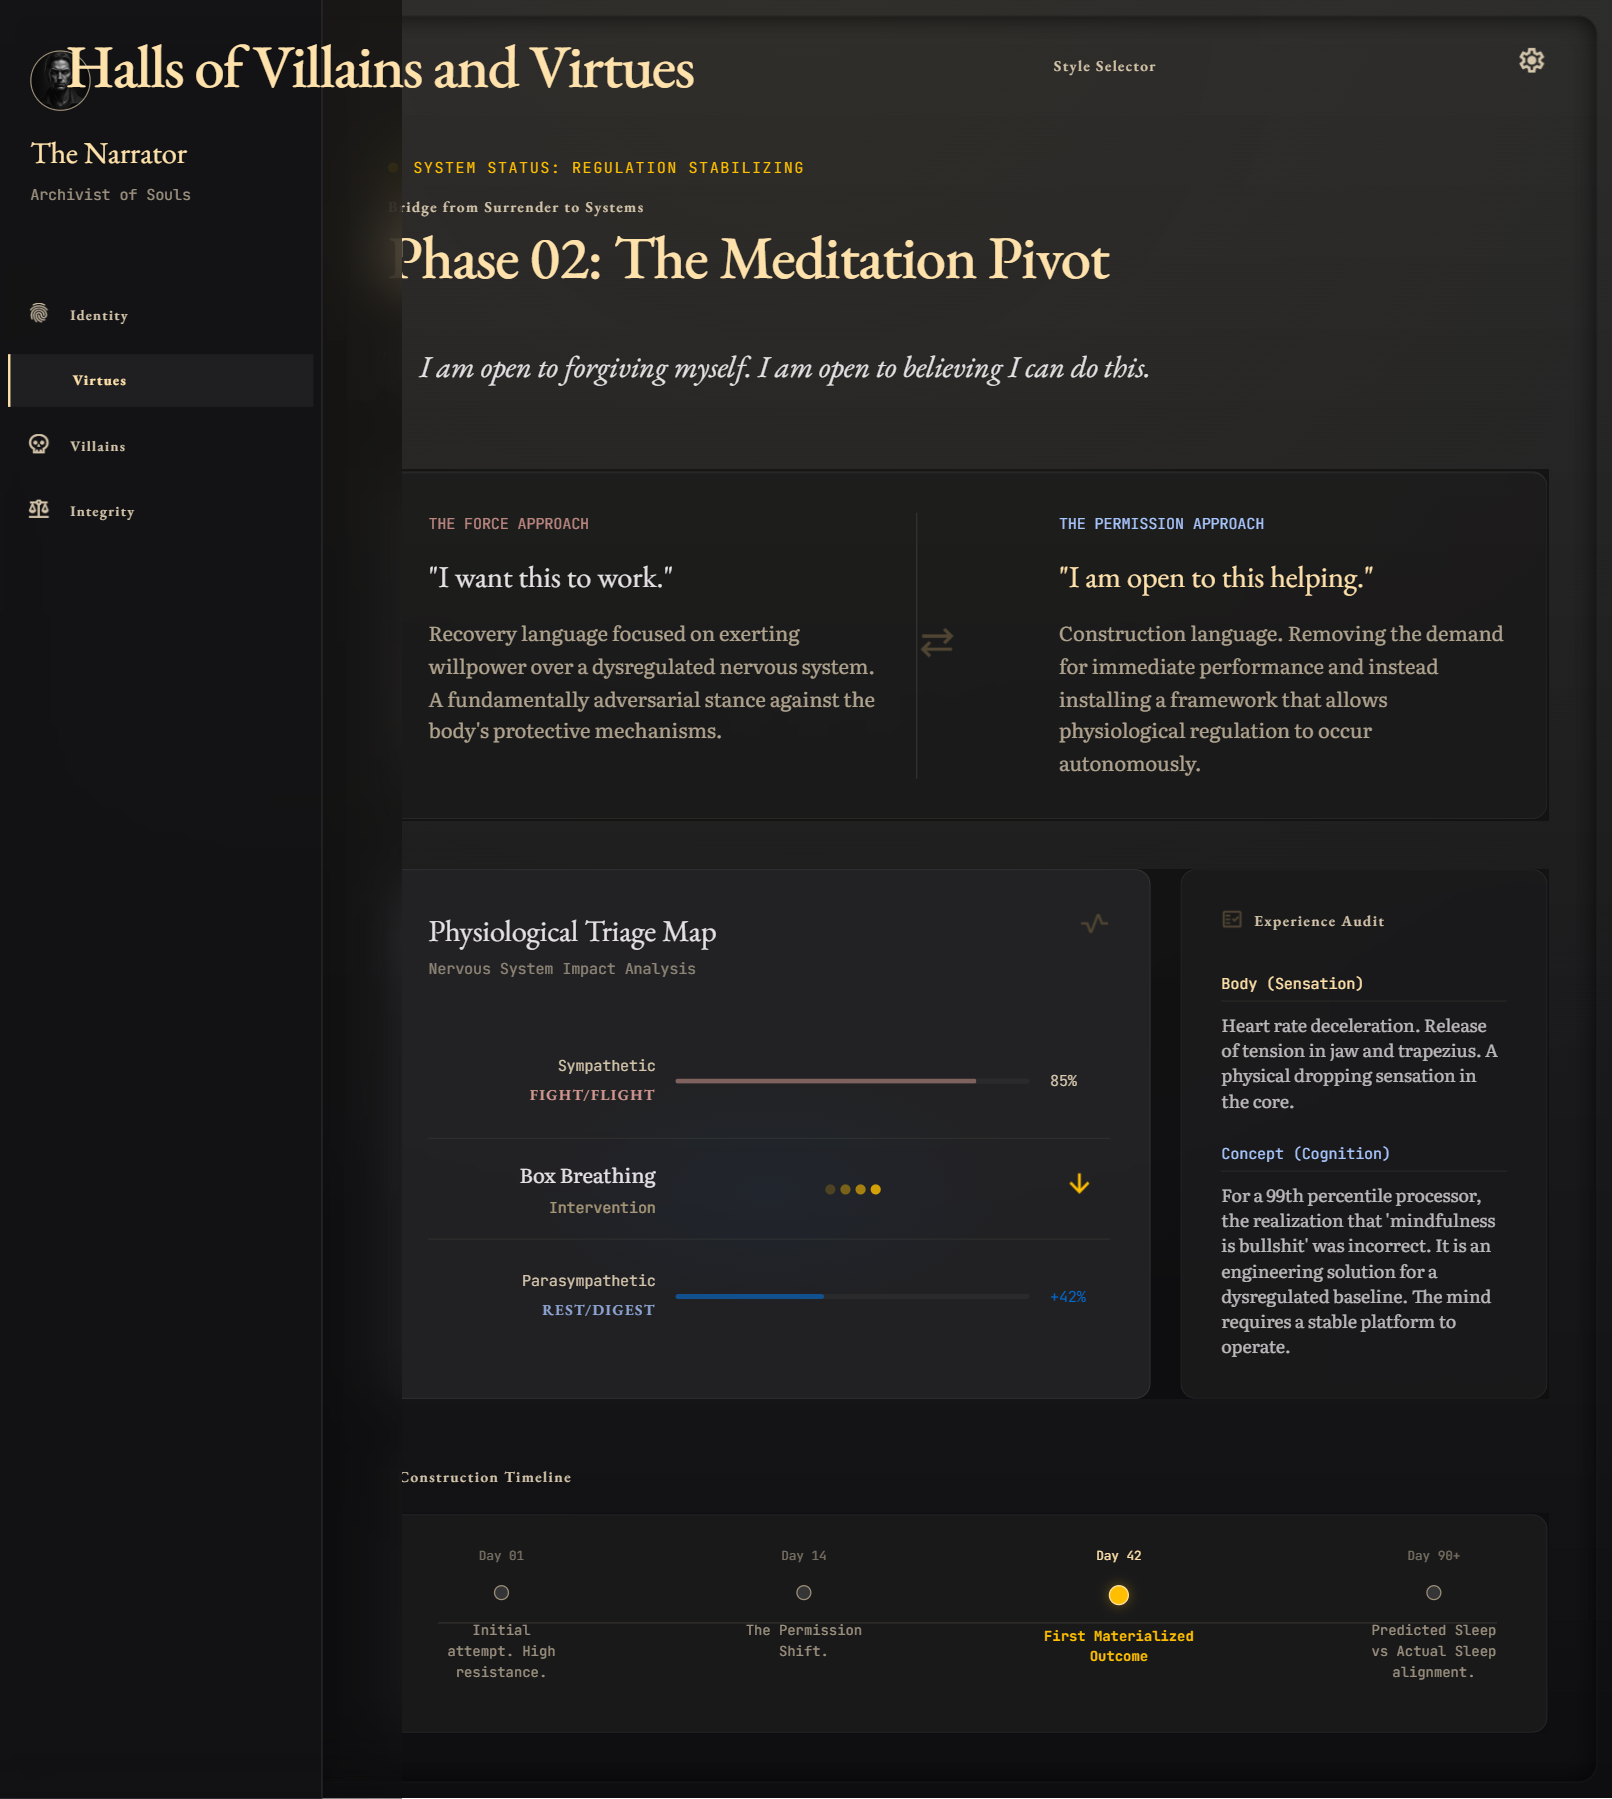
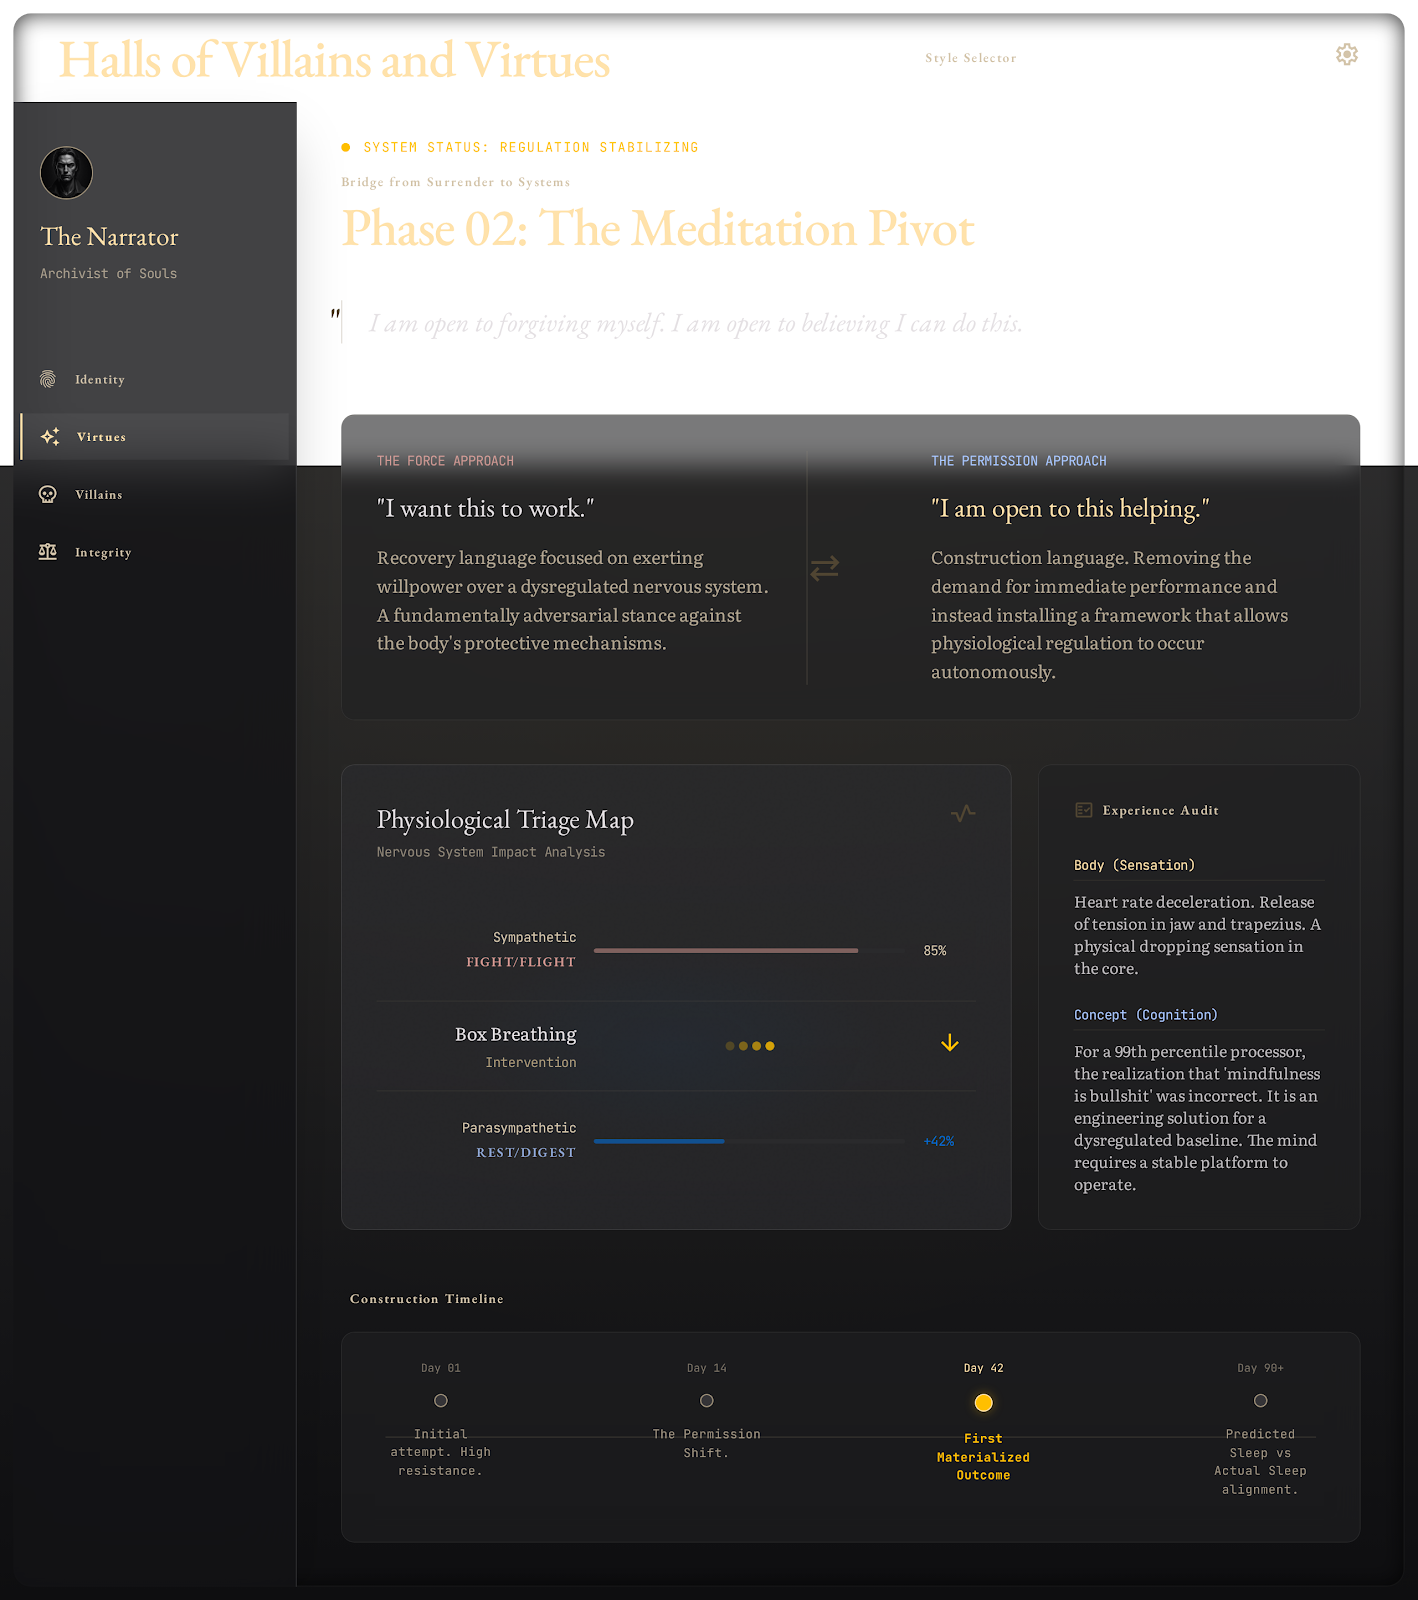
Add files via upload

diff --git a/welcome_to_the_chaos_club_excavation_report/code.html b/welcome_to_the_chaos_club_excavation_report/code.html
@@ -1,0 +1,238 @@
+<!DOCTYPE html>
+
+<html class="dark" lang="en"><head>
+<meta charset="utf-8"/>
+<meta content="width=device-width, initial-scale=1.0" name="viewport"/>
+<title>Excavation Report: Chaos Club</title>
+<script src="https://cdn.tailwindcss.com?plugins=forms,container-queries"></script>
+<link href="https://fonts.googleapis.com/css2?family=Material+Symbols+Outlined:wght,FILL@100..700,0..1&amp;display=swap" rel="stylesheet"/>
+<link href="https://fonts.googleapis.com/css2?family=EB+Garamond:ital,wght@0,400..800;1,400..800&amp;family=Literata:ital,opsz,wght@0,7..72,200..900;1,7..72,200..900&amp;family=JetBrains+Mono:wght@400;500;700&amp;display=swap" rel="stylesheet"/>
+<link href="https://fonts.googleapis.com/css2?family=Material+Symbols+Outlined:wght,FILL@100..700,0..1&amp;display=swap" rel="stylesheet"/>
+<script id="tailwind-config">
+        tailwind.config = {
+            darkMode: "class",
+            theme: {
+                extend: {
+                    "colors": {
+                        "secondary-fixed-dim": "#a9c7ff",
+                        "error-container": "#93000a",
+                        "inverse-on-surface": "#313032",
+                        "surface-bright": "#39393b",
+                        "surface-dim": "#131315",
+                        "on-tertiary-fixed-variant": "#454744",
+                        "tertiary-fixed": "#e3e3de",
+                        "primary": "#ffe2ab",
+                        "on-surface-variant": "#d4c5ab",
+                        "surface-container-lowest": "#0e0e10",
+                        "secondary-fixed": "#d6e3ff",
+                        "on-background": "#e5e1e4",
+                        "outline": "#9c8f78",
+                        "tertiary-fixed-dim": "#c6c7c2",
+                        "inverse-primary": "#795900",
+                        "background": "#131315",
+                        "surface-container-low": "#1c1b1d",
+                        "surface-container": "#201f21",
+                        "surface-tint": "#fbbc00",
+                        "on-secondary-fixed-variant": "#00468c",
+                        "on-error-container": "#ffdad6",
+                        "surface-variant": "#353437",
+                        "secondary-container": "#026bd2",
+                        "primary-fixed-dim": "#fbbc00",
+                        "tertiary": "#e6e6e1",
+                        "error": "#ffb4ab",
+                        "on-tertiary": "#2f312e",
+                        "on-secondary": "#003064",
+                        "inverse-surface": "#e5e1e4",
+                        "outline-variant": "#504532",
+                        "on-error": "#690005",
+                        "on-primary-container": "#6d5000",
+                        "on-tertiary-fixed": "#1a1c19",
+                        "on-surface": "#e5e1e4",
+                        "surface-container-high": "#2a2a2c",
+                        "on-secondary-container": "#ebf0ff",
+                        "surface": "#131315",
+                        "on-primary-fixed": "#261a00",
+                        "on-tertiary-container": "#535551",
+                        "surface-container-highest": "#353437",
+                        "primary-container": "#ffbf00",
+                        "tertiary-container": "#c9cac5",
+                        "primary-fixed": "#ffdfa0",
+                        "on-primary": "#402d00",
+                        "on-primary-fixed-variant": "#5c4300",
+                        "secondary": "#a9c7ff",
+                        "on-secondary-fixed": "#001b3e",
+                        "cyan-accent": "#00f0ff"
+                    },
+                    "borderRadius": {
+                        "DEFAULT": "0.25rem",
+                        "lg": "0.5rem",
+                        "xl": "0.75rem",
+                        "full": "9999px"
+                    },
+                    "spacing": {
+                        "unit": "8px",
+                        "container-padding": "40px",
+                        "window-frame-thickness": "12px",
+                        "gutter": "24px"
+                    },
+                    "fontFamily": {
+                        "label-caps": ["EB Garamond", "serif"],
+                        "body-lg": ["Literata", "serif"],
+                        "headline-md": ["EB Garamond", "serif"],
+                        "technical-sm": ["JetBrains Mono", "monospace"],
+                        "body-md": ["Literata", "serif"],
+                        "display-lg-mobile": ["EB Garamond", "serif"],
+                        "display-lg": ["EB Garamond", "serif"]
+                    },
+                    "fontSize": {
+                        "label-caps": ["12px", { "lineHeight": "1.0", "letterSpacing": "0.1em", "fontWeight": "600" }],
+                        "body-lg": ["18px", { "lineHeight": "1.6", "fontWeight": "400" }],
+                        "headline-md": ["24px", { "lineHeight": "1.4", "fontWeight": "400" }],
+                        "technical-sm": ["12px", { "lineHeight": "1.5", "letterSpacing": "-0.01em", "fontWeight": "400" }],
+                        "body-md": ["16px", { "lineHeight": "1.6", "fontWeight": "400" }],
+                        "display-lg-mobile": ["32px", { "lineHeight": "1.2", "fontWeight": "500" }],
+                        "display-lg": ["48px", { "lineHeight": "1.1", "letterSpacing": "-0.02em", "fontWeight": "500" }]
+                    },
+                    backgroundImage: {
+                        'grid-pattern': "linear-gradient(to right, rgba(255, 255, 255, 0.03) 1px, transparent 1px), linear-gradient(to bottom, rgba(255, 255, 255, 0.03) 1px, transparent 1px)"
+                    }
+                }
+            }
+        }
+    </script>
+<style>
+        body {
+            background-color: #0a0a0c;
+            color: #e5e1e4;
+        }
+        .window-frame {
+            box-shadow: inset 0 0 0 1px rgba(255, 255, 255, 0.1), inset 0 0 20px rgba(0,0,0,0.8);
+        }
+        .glass-panel {
+            background: rgba(32, 31, 33, 0.4);
+            backdrop-filter: blur(12px);
+            border: 0.5px solid rgba(255, 255, 255, 0.1);
+        }
+        .tech-accent {
+            color: #00f0ff;
+        }
+    </style>
+</head>
[1 lines of base64/hex data omitted]
+<!-- The Window Frame Container -->
+<div class="window-frame min-h-[calc(100vh-24px)] rounded-xl relative flex flex-col bg-background overflow-hidden">
+<!-- TopAppBar Shared Component -->
+<header class="flex justify-between items-center w-full px-10 h-20 bg-transparent shrink-0">
+<div class="flex items-center gap-4">
+<span class="font-display-lg-mobile text-display-lg-mobile md:font-display-lg md:text-display-lg text-primary dark:text-primary-fixed tracking-tight">
+                    Halls of Villains and Virtues
+                </span>
+<span class="text-on-surface-variant font-technical-sm text-technical-sm opacity-50 ml-4 hidden md:block">
+                    EXCAVATION REPORT // SEGMENT 12
+                </span>
+</div>
+<nav class="hidden md:flex gap-8 items-center">
+<a class="text-on-surface-variant font-label-caps text-label-caps hover:text-primary transition-colors duration-300" href="#">Style Selector</a>
+<button class="text-primary dark:text-primary-fixed hover:text-primary transition-colors duration-300">
+<span class="material-symbols-outlined">settings</span>
+</button>
+</nav>
+</header>
+<!-- Main Content Area -->
+<main class="flex-grow grid grid-cols-1 lg:grid-cols-12 gap-gutter px-container-padding py-10 overflow-y-auto">
+<!-- Left Column: Narrative -->
+<article class="lg:col-span-7 flex flex-col gap-8 pr-0 lg:pr-8 border-r-0 lg:border-r border-white/5">
+<header class="space-y-4">
+<h1 class="font-display-lg text-display-lg text-primary tracking-tight">Chapter 12: No Masks Required</h1>
+<div class="h-px w-24 bg-primary/30"></div>
+</header>
+<div class="prose prose-invert max-w-none">
+<p class="font-body-lg text-body-lg text-on-background">
+                        The philosophy of Chaos Club Co. didn't emerge from a boardroom. It was excavated from the wreckage. An artifact of lived experience, forged in the rejection of 'performative recovery' and the hollow echo of 'toxic positivity.'
+                    </p>
+<blockquote class="my-10 pl-6 border-l-4 border-primary italic">
+<p class="font-headline-md text-headline-md text-primary-fixed-dim">
+                            "Chaos is normal. Pretending isn't."
+                        </p>
+</blockquote>
+<p class="font-body-lg text-body-lg text-on-surface-variant">
+                        We built a sanctuary where the baseline assumption is that everyone is carrying something. It's a place where the "smoke detector goes off for burnt toast," and instead of panic, there is profound, collective understanding. We dismantled the expectation of arriving 'healed' and replaced it with the radical act of arriving 'real.'
+                    </p>
+</div>
+</article>
+<!-- Right Column: The Arsenal & Metrics -->
+<aside class="lg:col-span-5 flex flex-col gap-6">
+<!-- The Arsenal Card -->
+<div class="glass-panel rounded-lg p-6 flex flex-col gap-4 relative overflow-hidden group">
+<div class="absolute top-0 right-0 p-4 opacity-10 group-hover:opacity-20 transition-opacity">
+<span class="material-symbols-outlined text-[64px] text-primary">auto_awesome</span>
+</div>
+<div class="flex items-center justify-between border-b border-white/10 pb-3">
+<h3 class="font-label-caps text-label-caps text-primary tracking-widest">The Arsenal</h3>
+<span class="font-technical-sm text-technical-sm tech-accent">SYS_V240+</span>
+</div>
+<p class="font-technical-sm text-technical-sm text-on-surface-variant leading-relaxed">
+                        Shared toolkit derived from primary architect's personal systems. Diagnostic extraction complete.
+                    </p>
+</div>
+<!-- Platform Blueprint -->
+<div class="glass-panel rounded-lg p-6 flex flex-col gap-4">
+<div class="flex items-center gap-2 border-b border-white/10 pb-3">
+<span class="material-symbols-outlined text-primary text-sm">fingerprint</span>
+<h3 class="font-label-caps text-label-caps text-primary tracking-widest">Platform Blueprint: Pillars</h3>
+</div>
+<ul class="space-y-3">
+<li class="flex items-start gap-3">
+<span class="font-technical-sm text-technical-sm tech-accent mt-1">01</span>
+<span class="font-body-md text-body-md text-on-background">Normal is a moving target</span>
+</li>
+<li class="flex items-start gap-3">
+<span class="font-technical-sm text-technical-sm tech-accent mt-1">02</span>
+<span class="font-body-md text-body-md text-on-background">Progress, not pretending</span>
+</li>
+<li class="flex items-start gap-3">
+<span class="font-technical-sm text-technical-sm tech-accent mt-1">03</span>
+<span class="font-body-md text-body-md text-on-surface-variant opacity-50 italic">Data stream restricted...</span>
+</li>
+</ul>
+</div>
+<!-- Crisis Protocol & Load Balancing -->
+<div class="grid grid-cols-2 gap-4">
+<div class="glass-panel rounded-lg p-4 flex flex-col gap-2">
+<h4 class="font-technical-sm text-technical-sm text-error mb-2">CRISIS_PROTOCOL</h4>
+<div class="flex items-center gap-2">
+<div class="w-2 h-2 rounded-full bg-error animate-pulse"></div>
+<span class="font-label-caps text-label-caps text-on-background">Connection &gt; Rescue</span>
+</div>
+</div>
+<div class="glass-panel rounded-lg p-4 flex flex-col gap-2">
+<h4 class="font-technical-sm text-technical-sm tech-accent mb-2">LOAD_BALANCING</h4>
+<div class="flex gap-1">
+<div class="h-4 w-1/4 bg-primary/20 rounded-sm"></div>
+<div class="h-4 w-1/2 bg-primary/50 rounded-sm"></div>
+<div class="h-4 w-1/4 bg-primary rounded-sm"></div>
+</div>
+<span class="font-technical-sm text-technical-sm text-on-surface-variant text-right text-[10px]">PEER_SYNC: OK</span>
+</div>
+</div>
+</aside>
+</main>
+<!-- Footer Status Bar -->
+<footer class="h-12 border-t border-white/5 bg-surface-container/50 flex items-center justify-between px-container-padding shrink-0">
+<div class="flex items-center gap-3">
+<div class="w-1.5 h-1.5 rounded-full bg-green-500 shadow-[0_0_8px_rgba(34,197,94,0.6)]"></div>
+<span class="font-technical-sm text-technical-sm text-on-surface-variant">System Status: Collective Regulation Active</span>
+</div>
+<div class="flex items-center gap-6 font-technical-sm text-technical-sm">
+<div class="flex items-center gap-2">
+<span class="text-on-surface-variant">AUTH_PRESENCE:</span>
+<span class="text-primary">100%</span>
+</div>
+<div class="flex items-center gap-2">
+<span class="text-on-surface-variant">PERF_MASK:</span>
+<span class="text-error">0%</span>
+</div>
+</div>
+</footer>
+</div>
+</body></html>
